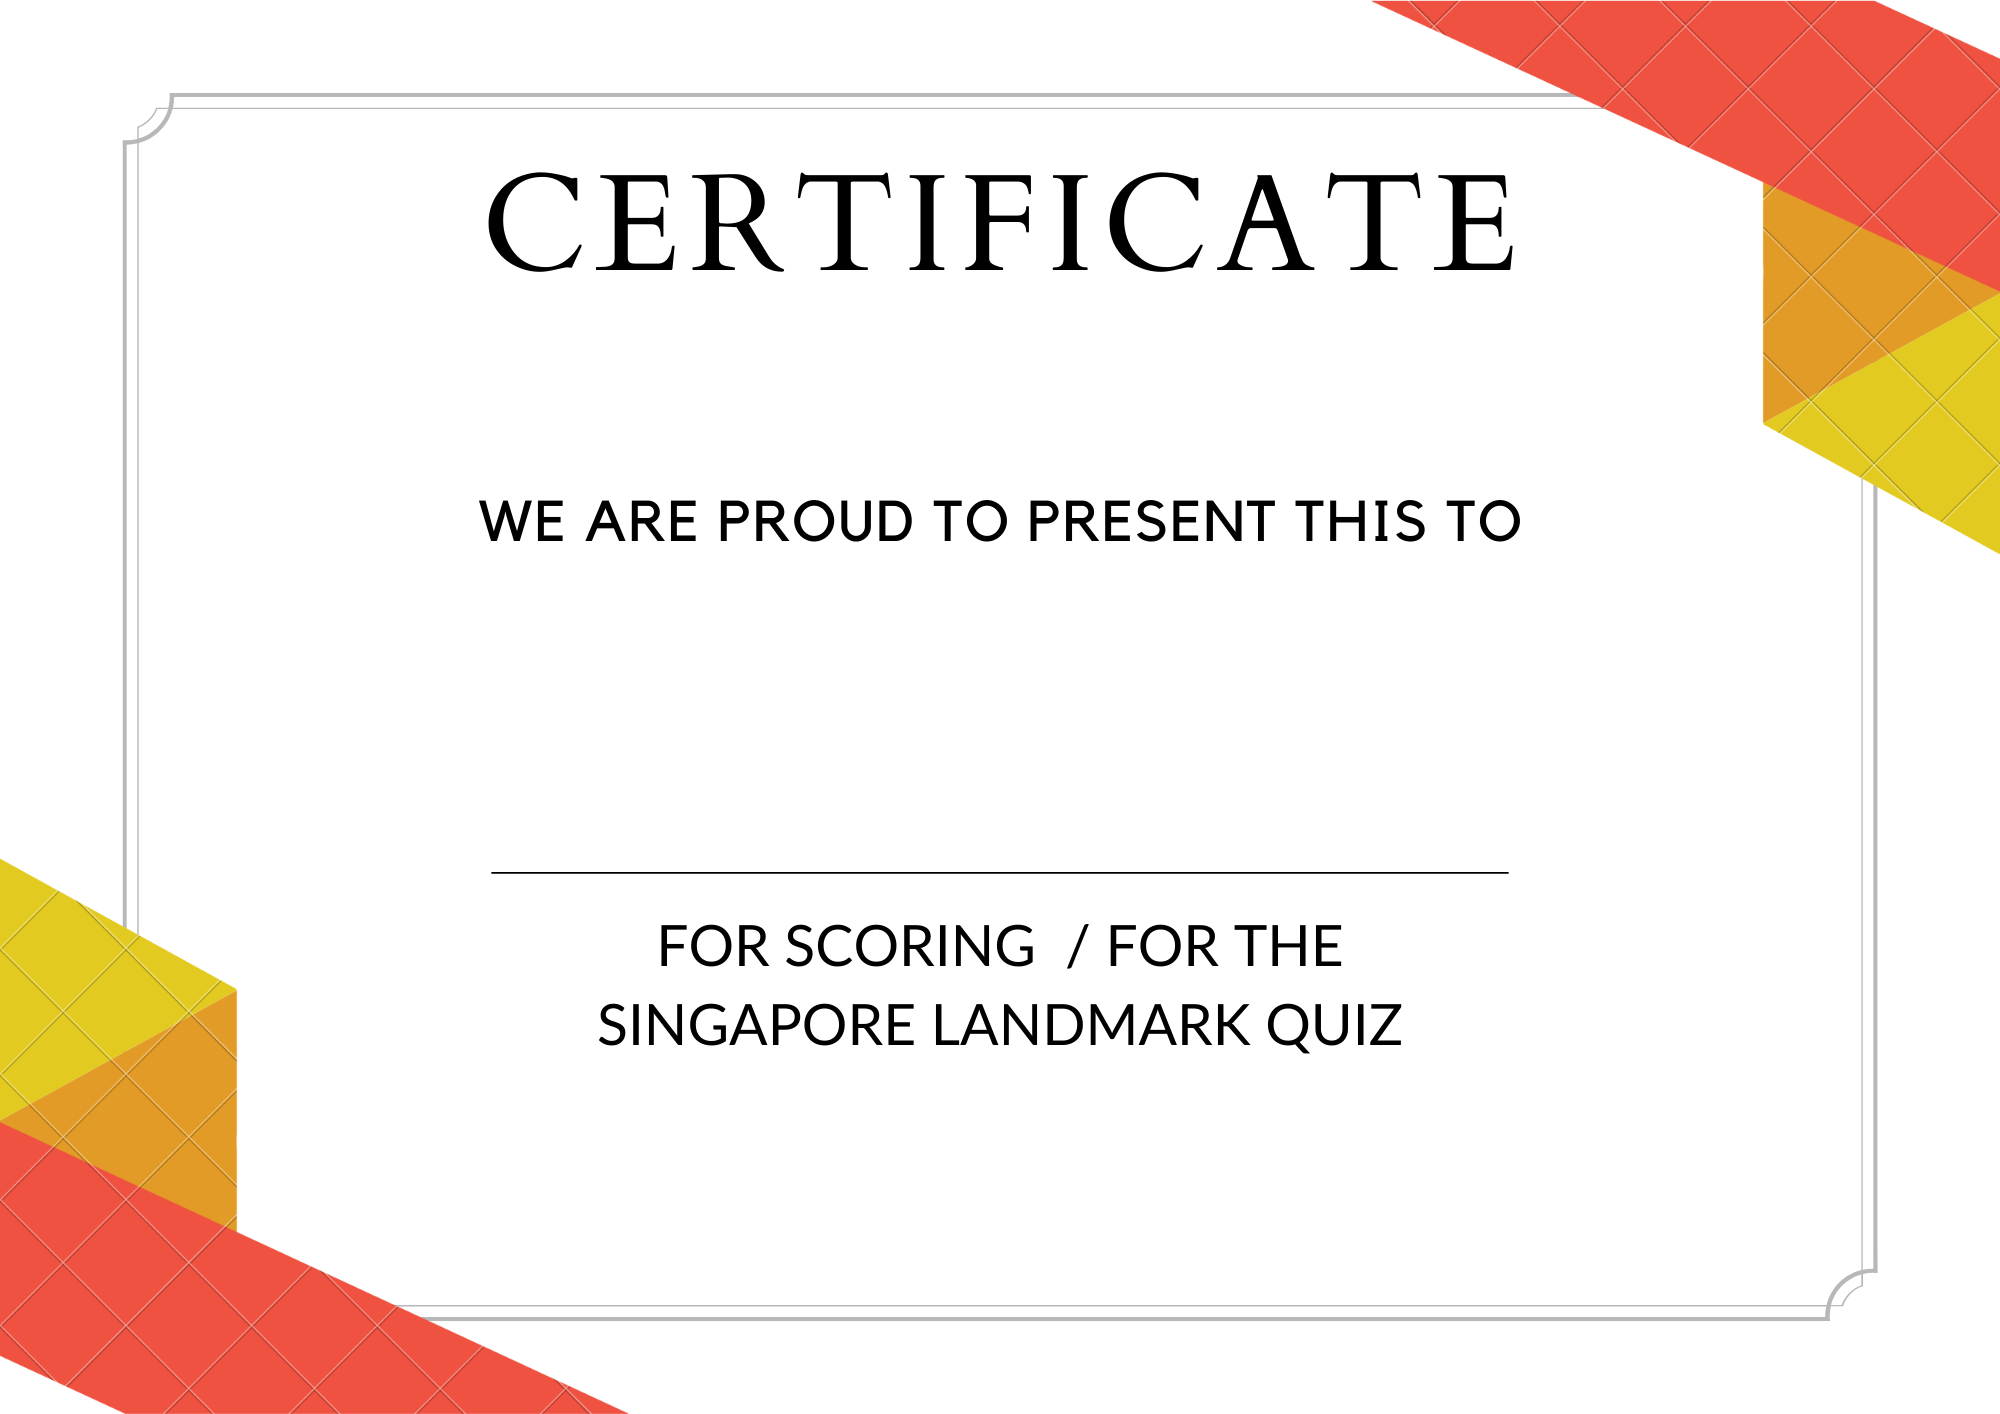
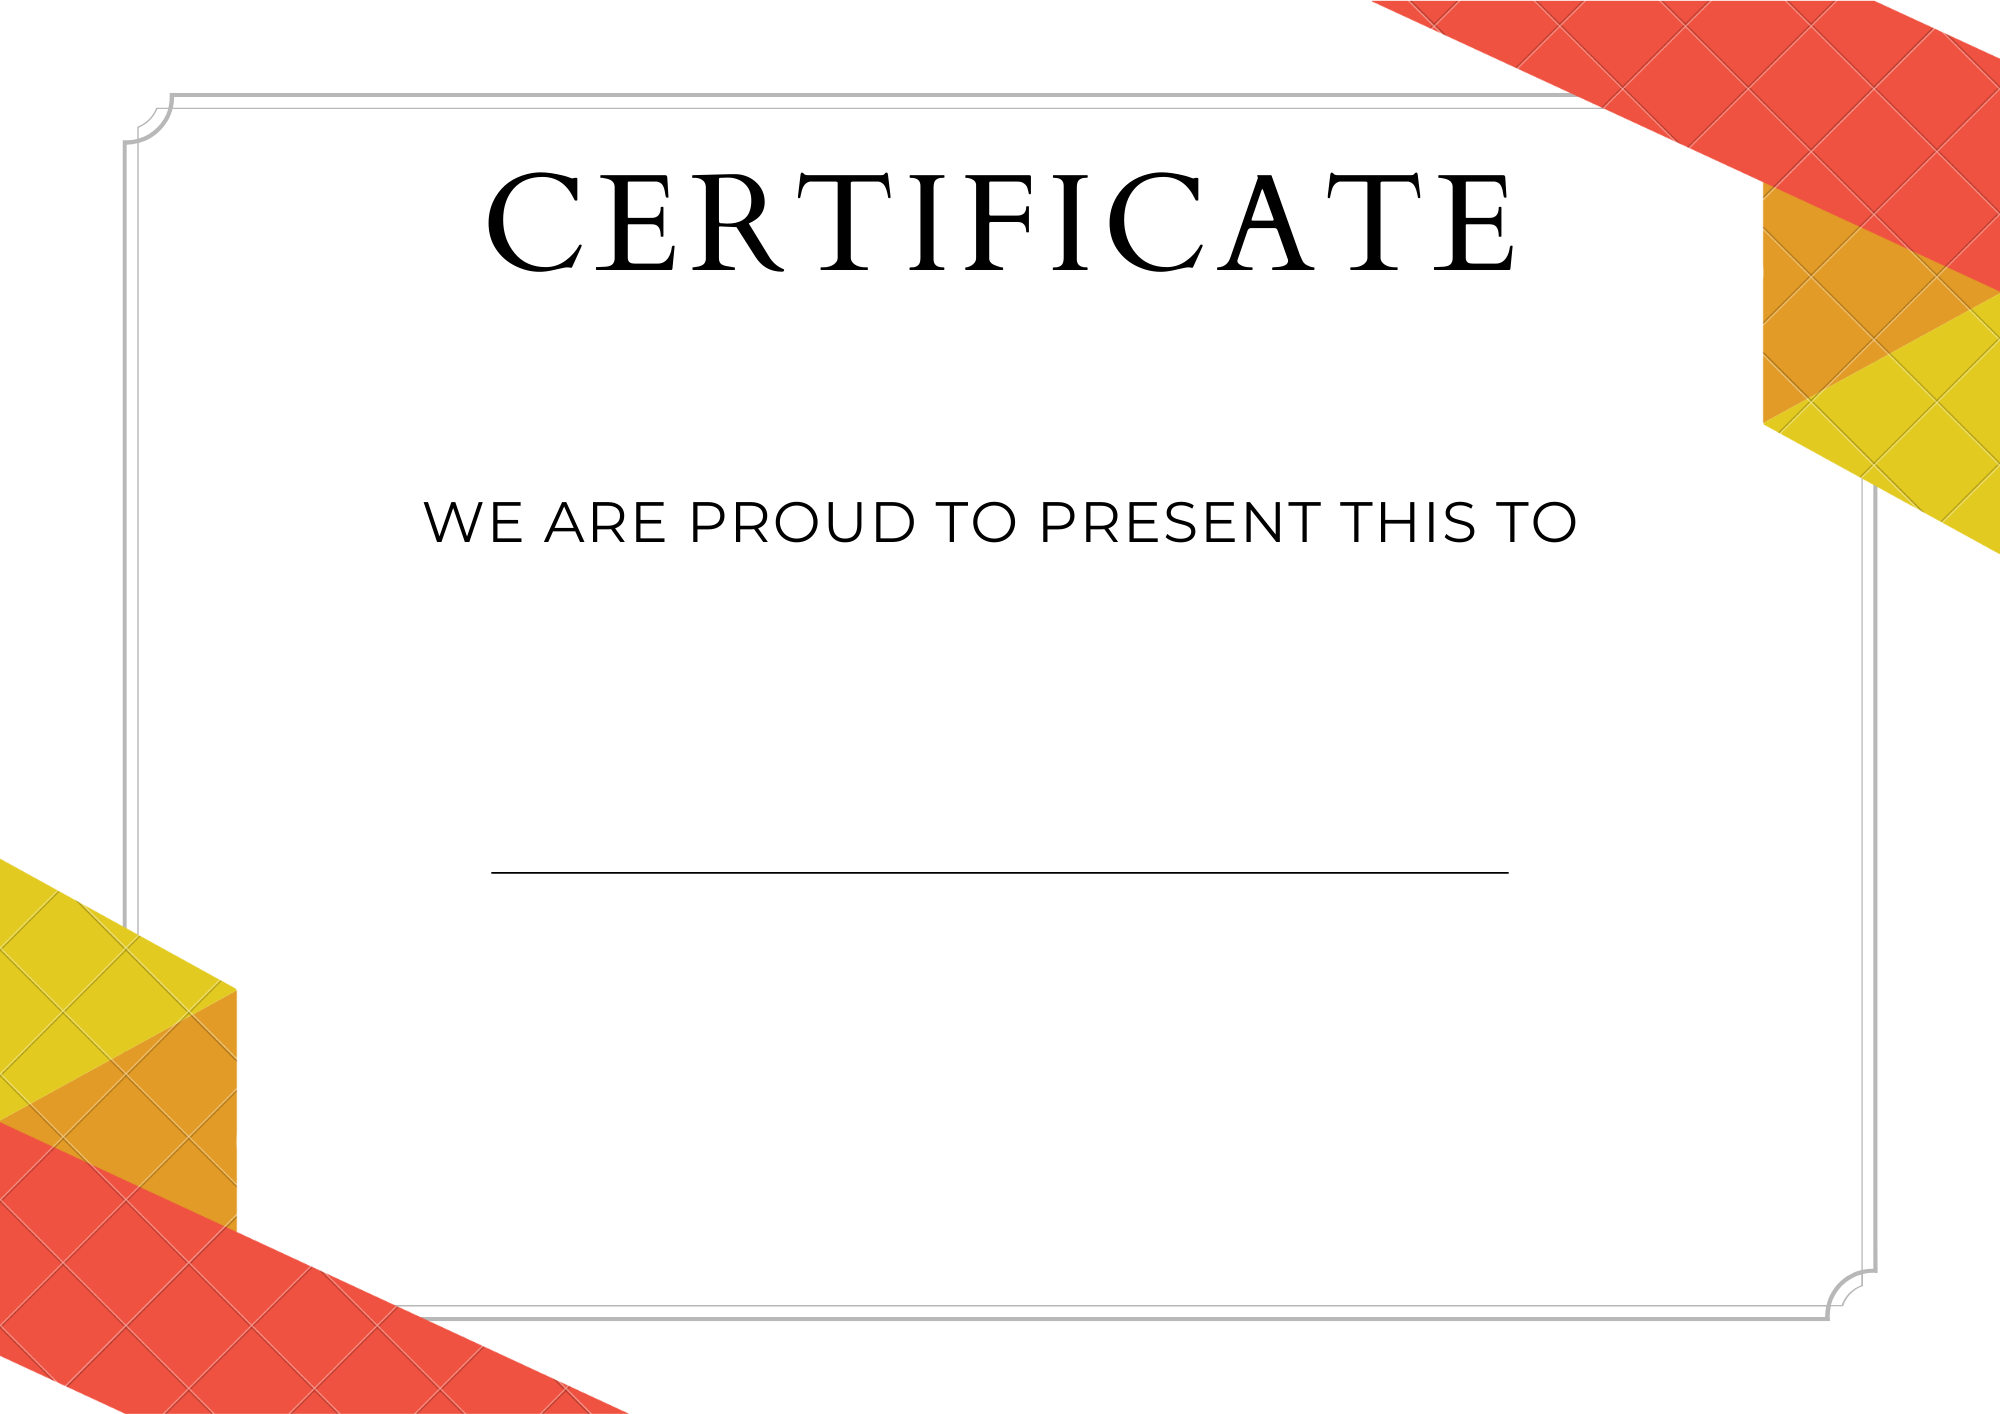
Added "Generate Certificate" functionality

Changed region(s): [[0.217, 0.3423, 0.775, 0.4045], [0.279, 0.7157, 0.713, 0.7468], [0.31, 0.6535, 0.682, 0.6846]]

diff --git a/src/App.js b/src/App.js
@@ -111,66 +111,11 @@ const politicalLandmarks = {
   AsianCivilisationsMuseum: { lat: 1.2875, lng: 103.8519 },
   NationalMuseumofSingapore: { lat: 1.2966, lng: 103.8485 },
 };
-// const landmarks = [
-//   {
-//     value: "Historical Landmarks",
-//     label: "Historical Landmarks",
-//   },
-//   {
-//     value: "Nature Parks",
-//     label: "Nature Parks",
-//   },
-//   {
-//     value: "Political Landmarks",
-//     label: "Political Landmarks",
-//   },
-// ];
-
-const historicalLandmarks = {
-  Merlion: { lat: 1.2868, lng: 103.8545 },
-  MarinaBaySands: { lat: 1.2836, lng: 103.8585 },
-  GardensByTheBay: { lat: 1.2816, lng: 103.8636 },
-  SentosaIsland: { lat: 1.2494, lng: 103.8303 },
-  UniversalStudios: { lat: 1.254, lng: 103.8238 },
-  OrchardRoad: { lat: 1.3048, lng: 103.8318 },
-  RafflesHotel: { lat: 1.2946, lng: 103.8534 },
-  Chinatown: { lat: 1.2839, lng: 103.8436 },
-  LittleIndia: { lat: 1.3064, lng: 103.8495 },
-  ClarkeQuay: { lat: 1.2905, lng: 103.8466 },
-};
-
-const natureParks = {
-  BukitTimahNatureReserve: { lat: 1.3547, lng: 103.7764 },
-  MacRitchieReservoir: { lat: 1.344, lng: 103.8206 },
-  SungeiBulohWetlandReserve: { lat: 1.4467, lng: 103.7306 },
-  LabradorNatureReserve: { lat: 1.2672, lng: 103.8021 },
-  PulauUbin: { lat: 1.412, lng: 103.9572 },
-  ConeyIslandPark: { lat: 1.3986, lng: 103.921 },
-  PasirRisPark: { lat: 1.3752, lng: 103.9544 },
-  EastCoastPark: { lat: 1.304, lng: 103.922 },
-  KentRidgePark: { lat: 1.2897, lng: 103.7847 },
-  FortCanningPark: { lat: 1.2921, lng: 103.8469 },
-};
-
-const politicalLandmarks = {
-  ParliamentHouse: { lat: 1.2895, lng: 103.851 },
-  Istana: { lat: 1.2967, lng: 103.8486 },
-  SupremeCourt: { lat: 1.2896, lng: 103.8504 },
-  CityHall: { lat: 1.293, lng: 103.8537 },
-  NationalGallerySingapore: { lat: 1.2903, lng: 103.8519 },
-  CivilianWarMemorial: { lat: 1.2934, lng: 103.8524 },
-  OldParliamentHouse: { lat: 1.2899, lng: 103.8507 },
-  VictoriaTheatreConcertHall: { lat: 1.2888, lng: 103.8514 },
-  AsianCivilisationsMuseum: { lat: 1.2875, lng: 103.8519 },
-  NationalMuseumofSingapore: { lat: 1.2966, lng: 103.8485 },
-};
 
 const App = () => {
   const [userMessage, setUserMessage] = useState("");
   const [aiResponse, setAiResponse] = useState("");
   const [isLoggedIn, setIsLoggedIn] = useState(false);
-  const [selectedLandmarks, setSelectedLandmarks] =
-    useState(historicalLandmarks);
   const [selectedLandmarks, setSelectedLandmarks] =
     useState(historicalLandmarks);
 
@@ -310,7 +255,6 @@ const App = () => {
                 sx={{ width: "150px", height: "50px" }}
               >
                 Nature Parks
-                Nature Parks
               </Button>
             </StyledGridPills>
             <StyledGridPills item>
@@ -334,7 +278,6 @@ const App = () => {
                 }}
                 sx={{ width: "150px", height: "50px" }}
               >
-                Political Landmarks
                 Political Landmarks
               </Button>
             </StyledGridPills>
@@ -394,7 +337,6 @@ const App = () => {
             >
               Clear
             </Button> */}
-            </Button>
             <Box
               sx={{
                 "& .MuiTextField-root": { m: 1, width: "25ch" },
@@ -426,10 +368,7 @@ const App = () => {
             }}
           >
             <RenderMap
-             
               sendMessage={sendMessage}
-              landmarks={selectedLandmarks}
-           
               landmarks={selectedLandmarks}
             />
             {/*<GoogleMap

diff --git a/src/Services/Maps/RenderMap.js b/src/Services/Maps/RenderMap.js
@@ -27,16 +27,9 @@ const center = {
 };
 
 const RenderMap = ({ sendMessage, landmarks }) => {
-const RenderMap = ({ sendMessage, landmarks }) => {
   const { isLoaded, loadError } = useLoadScript({
     googleMapsApiKey: process.env.REACT_APP_GOOGLE_MAPS_API_KEY,
     libraries,
-  });
-  const [markerLoaded, setMarkerLoaded] = useState(false);
-  const [selectedLocation, setSelectedLocation] = useState();
-  const [selectedPlace, setSelectedPlace] = useState({
-    lat: 1.3513,
-    lng: 103.81404,
   });
   const [markerLoaded, setMarkerLoaded] = useState(false);
   const [selectedLocation, setSelectedLocation] = useState();
@@ -75,13 +68,7 @@ const RenderMap = ({ sendMessage, landmarks }) => {
   const onMapClick = useCallback((event) => {
     const lat = event.latLng.lat();
     const lng = event.latLng.lng();
-    const lat = event.latLng.lat();
-    const lng = event.latLng.lng();
     setSelectedLocation({
-      lat: event.latLng.lat(),
-      lng: event.latLng.lng(),
-    });
-    onMarkerClick({
       lat: event.latLng.lat(),
       lng: event.latLng.lng(),
     });
@@ -103,23 +90,8 @@ const RenderMap = ({ sendMessage, landmarks }) => {
           console.log("No results found");
         }
         setSelectedPlace(res.data.results[0]);
-        `https://maps.googleapis.com/maps/api/geocode/json?latlng=${lat},${lng}&key=${process.env.REACT_APP_GOOGLE_MAPS_API_KEY}`
-      )
-      .then((res) => {
-        if (res.data.results && res.data.results[0]) {
-          console.log(res.data.results[0].formatted_address);
-          writeCoordinatesData(lat, lng);
-          console.log("Coordinates written to Firebase");
-          //readCoordinatesData();
-        } else {
-          console.log("No results found");
-        }
-        setSelectedPlace(res.data.results[0]);
         sendMessage(
-          `You are a world class Historian with expert knowledge on Singapore's every landmark and building. What is the name of this location with the following address:${res}. Share with me its history, and what developments occurred in the last 20 years in Singapore. Word limit is 100 words.`
-        );
-      });
-          `You are a world class Historian with expert knowledge on Singapore's every landmark and building. Share with me the history, in the last 20 years in Singapore of the following place, named ${res.data.results[0].formatted_address}. Word limit is 200 words, in 3 paragraphs with relevant line breaks.`
+          `You are a world class Historian with expert knowledge on Singapore's every landmark and building. What is the name of this location with the following address:${res.data.results[0].formatted_address}. Share with me its history, and what developments occurred in the last 20 years in Singapore. Word limit is 100 words.`
         );
       });
   }, []);

diff --git a/src/Services/CreateCertificate.js b/src/Services/CreateCertificate.js
@@ -1,10 +1,13 @@
 import React from "react";
 import jsPDF from "jspdf";
 import img from "../assets/certificate-background.png";
+import { Landscape, Portrait } from "@mui/icons-material";
 
-const generateCertificate = (name, course) => {
+const generateCertificate = (name, course, scoreText) => {
   // Create a new jsPDF instance
-  const doc = new jsPDF();
+  const doc = new jsPDF({
+    orientation: Portrait,
+  });
 
   // Add background image
   doc.addImage(
@@ -23,20 +26,11 @@ const generateCertificate = (name, course) => {
 
   // Add course name
   doc.setFontSize(20);
-  doc.text(course, 105, 195, { align: "center" }); // 105 and 195: horizontal and vertical positions of the text
+  doc.text(course, 105, 195, { align: "center" });
+  doc.text(scoreText, 95, 175, { align: "center" }); // 105 and 195: horizontal and vertical positions of the text
 
   // Save the PDF
   doc.save(`${name}-${course}.pdf`);
 };
 
-function CertificateGenerator(props) {
-  return (
-    <div>
-      <button onClick={() => generateCertificate(props.name, props.course)}>
-        Generate Certificate
-      </button>
-    </div>
-  );
-}
-
-export default CertificateGenerator;
+export default generateCertificate;

diff --git a/src/Components/Quizzes.js b/src/Components/Quizzes.js
@@ -11,6 +11,7 @@ import { AppLinks } from "../AppMain";
 
 // MUI
 import { Button, Grid, Typography, Box } from "@mui/material";
+import generateCertificate from "../Services/CreateCertificate";
 
 export default function Quiz({ user }) {
   const quizData = [
@@ -46,6 +47,9 @@ export default function Quiz({ user }) {
   const [currentQuestion, setCurrentQuestion] = useState(0);
   const [userAnswer, setUserAnswer] = useState(null);
   const [score, setScore] = useState(0);
+  const userName = "Charles Lee";
+  const course = "Singapore Landmarks Quiz";
+  const scoreText = `For scoring ${score} out of 3 for the ${course}`;
 
   const userId = user.uid;
 
@@ -222,6 +226,12 @@ export default function Quiz({ user }) {
                 onClick={() => deleteUsersCollection()}
               >
                 Delete score from Cloud Firestore
+              </Button>
+              <Button
+                variant="contained"
+                onClick={() => generateCertificate(userName, course, scoreText)}
+              >
+                Generate Certificate
               </Button>
             </Box>
           )}
